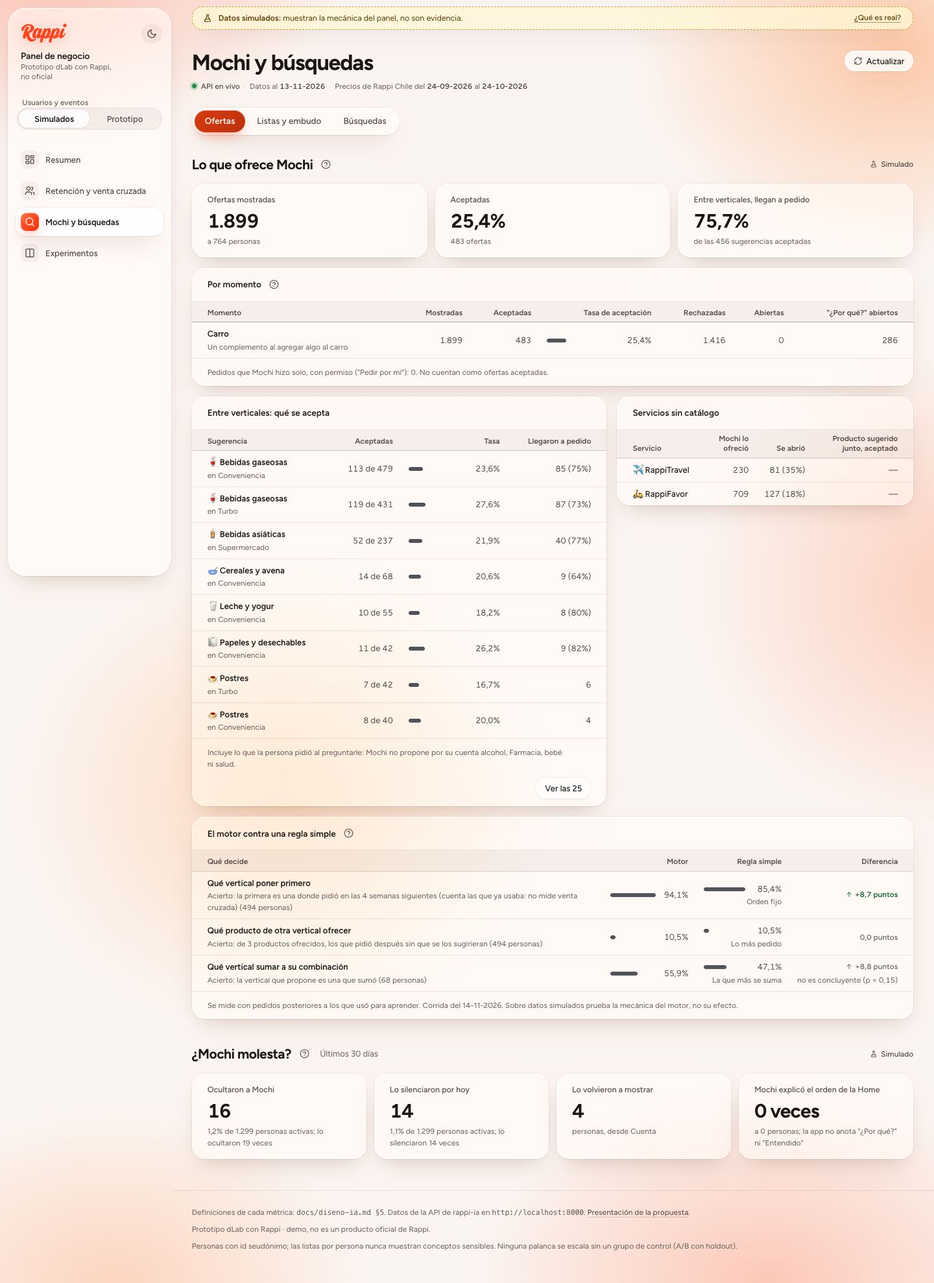
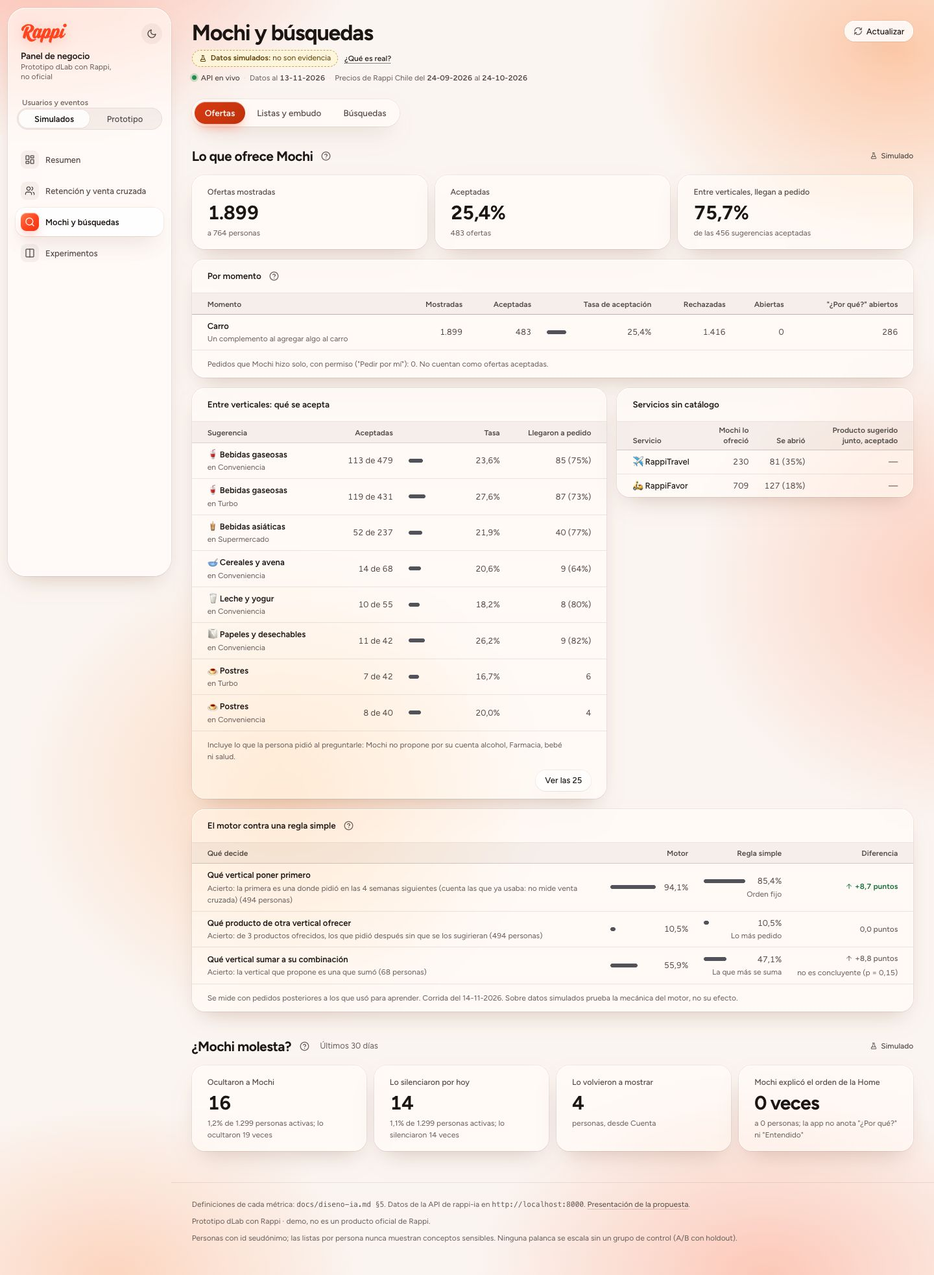
design(panel): la procedencia pasa de la franja fija a una etiqueta bajo el título
Se saca la franja "Datos simulados: … no son evidencia" de arriba del
contenido. El mismo aviso queda como etiqueta ámbar bajo el título de cada
página, con "¿Qué es real?": ninguna cifra simulada se ve sin su aviso.

diff --git a/dashboard-empresa/src/components/shell/shell.css b/dashboard-empresa/src/components/shell/shell.css
@@ -2,9 +2,8 @@
  * Armazón del panel. El scroll es del documento (la presentación lo desplaza con scrollBy y las capturas son de página
  * completa): lo fijo va con sticky.
  * Todo flota sobre el fondo de luz (`.app::before`): desde 1200 px, la barra lateral es un vidrio fijo separado de los
- * bordes (marca y tema, fuente, vistas) y, a su derecha, la franja de procedencia es una cápsula fija sobre el
- * contenido. Más angosto, la barra lateral se deshace (display: contents): la marca y la fuente arriba, las vistas como
- * tira de vidrio fija y la franja fija bajo ella.
+ * bordes (marca y tema, fuente, vistas). Más angosto, la barra lateral se deshace (display: contents): la marca y la
+ * fuente arriba y las vistas como tira de vidrio fija. La procedencia de los datos va bajo el título de cada página.
  */
 .app {
   position: relative;
@@ -262,11 +261,47 @@
   display: none;
 }
 
-/* ---------- Franja de procedencia (permanente y fija) y avisos de conexión: cápsulas de vidrio ---------- */
-.app-top {
-  position: sticky;
-  z-index: 20;
-  padding-top: 10px;
+/* ---------- Procedencia (bajo el título, siempre a la vista) y avisos de conexión ---------- */
+/* La etiqueta de procedencia: el único ámbar de la página, con borde punteado, ícono y texto (nunca solo por color) */
+.provenance {
+  position: relative;
+  display: flex;
+  flex-wrap: wrap;
+  align-items: center;
+  gap: 6px var(--space-2);
+  font-size: var(--text-xs);
+}
+
+.provenance-chip {
+  display: inline-flex;
+  align-items: flex-start;
+  gap: 6px;
+  padding: 3px 10px;
+  border: 1px dashed color-mix(in srgb, var(--sim-edge) 70%, transparent);
+  border-radius: 999px;
+  line-height: 1.45;
+  color: var(--sim-ink);
+  background: color-mix(in srgb, var(--sim-bg) 82%, transparent);
+}
+
+.provenance-chip svg {
+  flex: none;
+  width: 12px;
+  height: 12px;
+  margin-top: 3px;
+}
+
+.provenance-chip strong {
+  font-weight: 600;
+}
+
+.provenance .help-panel {
+  width: min(420px, 100%);
+}
+
+/* Los avisos de conexión: cápsulas de vidrio arriba del contenido */
+.notices {
+  padding-top: var(--space-3);
 }
 
 .provenance-row {
@@ -274,27 +309,15 @@
   margin-inline: auto;
   border: 1px solid var(--line);
   border-radius: 16px;
-  color: var(--ink);
+  color: var(--ink-2);
   background: var(--chrome);
   box-shadow: var(--glass-shadow);
   -webkit-backdrop-filter: var(--glass-blur);
   backdrop-filter: var(--glass-blur);
 }
 
-.provenance-row + .provenance-row,
-.app-top + .provenance-row {
+.provenance-row + .provenance-row {
   margin-top: var(--space-2);
-}
-
-.provenance-row--synthetic,
-.provenance-row--demo {
-  border: 1px dashed color-mix(in srgb, var(--sim-edge) 70%, transparent);
-  color: var(--sim-ink);
-  background: color-mix(in srgb, var(--sim-bg) 82%, transparent);
-}
-
-.provenance-row--offline {
-  color: var(--ink-2);
 }
 
 .provenance-inner {
@@ -328,18 +351,6 @@
 
 .provenance-inner .link-button {
   flex: none;
-}
-
-/* "¿Qué es real?": su panel se abre bajo la franja, alineado a la derecha */
-.provenance-inner .help {
-  flex: none;
-}
-
-.provenance-inner .help-panel {
-  right: 0;
-  left: auto;
-  width: min(420px, 100%);
-  color: var(--ink-2);
 }
 
 /* ---------- Contenido ---------- */
@@ -590,12 +601,8 @@
     text-overflow: ellipsis;
   }
 
-  .app-top {
-    top: 0;
-  }
-
   h2[id] {
-    scroll-margin-top: calc(var(--top-h, 46px) + 16px);
+    scroll-margin-top: var(--space-4);
   }
 }
 
@@ -656,10 +663,6 @@
     display: none;
   }
 
-  .app-top {
-    top: var(--nav-h);
-  }
-
   .provenance-inner {
     align-items: flex-start;
   }
@@ -673,7 +676,7 @@
   }
 
   h2[id] {
-    scroll-margin-top: calc(var(--nav-h) + var(--top-h, 58px) + 12px);
+    scroll-margin-top: calc(var(--nav-h) + 12px);
   }
 }
 

diff --git a/dashboard-empresa/src/components/shell/ProvenanceBanner.jsx b/dashboard-empresa/src/components/shell/ProvenanceBanner.jsx
@@ -8,21 +8,23 @@ const REAL =
   'Son reales la tabla de combinaciones de verticales que compartió Rappi (lleva el rótulo "Dato de Rappi") y los ' +
   'ítems del catálogo (muestra pública de rappi.cl).'
 
-// En una línea: la fuente elegida y que no es evidencia. La frase del prototipo va en su propio span: `make mvp-check`
-// la busca tal cual. Qué es real, a demanda.
+// En pocas palabras: la fuente elegida y que no es evidencia. La frase del prototipo va en su propio span: los tests la
+// buscan tal cual. Qué es real, a demanda.
 const MESSAGES = {
   synthetic: {
     text: (
       <>
-        <strong>Datos simulados:</strong> <span>muestran la mecánica del panel, no son evidencia</span>.
+        <strong>Datos simulados:</strong> <span>no son evidencia</span>
       </>
     ),
-    real: `${REAL} Usuarios, pedidos, búsquedas y ofertas los crea un generador con semilla.`,
+    real:
+      `Muestran la mecánica del panel. ${REAL} Usuarios, pedidos, búsquedas y ofertas los crea un generador con ` +
+      'semilla.',
   },
   prototype: {
     text: (
       <>
-        <strong>Datos del prototipo:</strong> <span>uso del MVP, pocas personas: no es evidencia</span>.
+        <strong>Datos del prototipo:</strong> <span>uso del MVP, pocas personas: no es evidencia</span>
       </>
     ),
     real:
@@ -32,38 +34,35 @@ const MESSAGES = {
 }
 
 /**
- * Aviso permanente de procedencia, fijo arriba del contenido (nunca se oculta): el único elemento ámbar de la página.
- * Mientras corre "Ver cómo funciona", una segunda fila dice que las cifras traen eventos de ejemplo.
+ * La procedencia de los datos, siempre a la vista bajo el título de la página: una etiqueta ámbar (el único ámbar de
+ * la página) y "¿Qué es real?". Mientras corre "Ver cómo funciona", una segunda etiqueta dice que las cifras traen
+ * eventos de ejemplo.
  */
-export function ProvenanceBanner({ source }) {
+export function ProvenanceChip({ source }) {
   const { text, real } = MESSAGES[source]
   return (
     <div className="provenance" role="note" aria-label="Procedencia de los datos">
-      <div className={`provenance-row provenance-row--${source}`}>
-        <div className="provenance-inner">
-          <Icon name="flask" />
-          <p>{text}</p>
-          <Help label="Qué es real" text="¿Qué es real?">
-            <p>{real}</p>
-          </Help>
-        </div>
-      </div>
+      <p className="provenance-chip">
+        <Icon name="flask" />
+        <span>{text}</span>
+      </p>
       {isDemoActive() && (
-        <div className="provenance-row provenance-row--demo">
-          <div className="provenance-inner">
-            <Icon name="flask" />
-            <p>
-              <strong>Demostración:</strong> las cifras traen eventos de ejemplo, no son datos reales.
-            </p>
-          </div>
-        </div>
+        <p className="provenance-chip">
+          <Icon name="flask" />
+          <span>
+            <strong>Demostración:</strong> las cifras traen eventos de ejemplo, no son datos reales.
+          </span>
+        </p>
       )}
+      <Help label="Qué es real" text="¿Qué es real?">
+        <p>{real}</p>
+      </Help>
     </div>
   )
 }
 
 /**
- * Los avisos de conexión, bajo la franja (no fijos): la foto sin conexión y, si alguna consulta cayó a los datos
+ * Los avisos de conexión, arriba del contenido (no fijos): la foto sin conexión y, si alguna consulta cayó a los datos
  * guardados, cuál y por qué. Con el prototipo sin la API (`prototypeOffline`), el único aviso de error de la página,
  * con su Reintentar.
  */

diff --git a/dashboard-empresa/src/App.jsx b/dashboard-empresa/src/App.jsx
@@ -2,7 +2,7 @@ import { AGENT_NAME } from './lib/agentName.js'
 import { lazy, Suspense, useEffect, useRef, useState } from 'react'
 import { Header } from './components/shell/Header.jsx'
 import { PageHeader } from './components/shell/PageHeader.jsx'
-import { ConnectionNotices, ProvenanceBanner } from './components/shell/ProvenanceBanner.jsx'
+import { ConnectionNotices } from './components/shell/ProvenanceBanner.jsx'
 import { SourceSwitch } from './components/shell/SourceSwitch.jsx'
 import { Tabs } from './components/shell/Tabs.jsx'
 import { API_URL, refreshSource, retryConnection, SNAPSHOT_INFO } from './lib/api.js'
@@ -79,28 +79,15 @@ export default function App() {
   const prototypeOffline = usePrototypeOffline()
   const [reloadKey, setReloadKey] = useState(0)
   const main = useRef(null)
-  const top = useRef(null)
   const nav = useRef(null)
   const anchor = useRef(null)
-  // Desde 1200 px: barra lateral con la marca, la fuente y las vistas, y la franja de procedencia fija arriba del
-  // contenido; más angosto, las vistas son una tira fija arriba y la franja queda fija bajo ella.
+  // Desde 1200 px: barra lateral con la marca, la fuente y las vistas; más angosto, las vistas son una tira fija arriba.
   const wide = useMediaQuery('(min-width: 1200px)')
   const { View, label, tabs } = VIEWS.find((item) => item.id === view)
 
-  // La altura de la franja de procedencia (en angosto ocupa dos líneas), para el CSS.
-  useEffect(() => {
-    const element = top.current
-    if (!element || typeof ResizeObserver === 'undefined') return undefined
-    const observer = new ResizeObserver(() =>
-      document.documentElement.style.setProperty('--top-h', `${element.offsetHeight}px`),
-    )
-    observer.observe(element)
-    return () => observer.disconnect()
-  }, [])
-
   /** Vuelve al comienzo del contenido (bajo lo que queda fijo arriba) si se está más abajo. */
   const toContentStart = () => {
-    const fixed = wide ? top.current.offsetHeight : nav.current.offsetHeight + top.current.offsetHeight
+    const fixed = wide ? 0 : nav.current.offsetHeight
     const start = main.current.getBoundingClientRect().top + window.scrollY - fixed
     if (window.scrollY > start) window.scrollTo({ top: start })
   }
@@ -180,9 +167,6 @@ export default function App() {
         </div>
       </div>
       <div className="app-main">
-        <div className="app-top" ref={top}>
-          <ProvenanceBanner source={source} />
-        </div>
         <ConnectionNotices source={source} fallbacks={fallbacks} prototypeOffline={prototypeOffline} onRetry={retry} />
         <main ref={main} id={`panel-${view}`} role="tabpanel" aria-labelledby={`tab-${view}`} className="app-content">
           <PageHeader

diff --git a/dashboard-empresa/src/styles/tokens.css b/dashboard-empresa/src/styles/tokens.css
@@ -3,16 +3,16 @@
  * (prefers-color-scheme) salvo que el usuario lo fije con el botón (data-theme en <html>).
  *
  * Lenguaje: vidrio líquido. Las superficies son translúcidas y flotan sobre un fondo de luz naranja (`.app::before`,
- * shell.css); cada una desenfoca lo que tiene detrás, lleva un brillo fino arriba y una sombra suave. Se conservan tres
- * convenciones: la densidad de tabla de Carbon (filas de 36 px, cabecera de 32), el "entorno de datos" fijo tipo "Test
- * mode" de Stripe (la franja de procedencia) y la navegación lateral de Linear.
+ * shell.css); cada una desenfoca lo que tiene detrás, lleva un brillo fino arriba y una sombra suave. Se conservan dos
+ * convenciones: la densidad de tabla de Carbon (filas de 36 px, cabecera de 32) y la navegación lateral de Linear. El
+ * "entorno de datos" (simulados o del prototipo) va en una etiqueta bajo el título de cada página.
  *
  * Reglas semánticas:
  *  - neutros cálidos y translúcidos para lo que no tiene juicio: texto, líneas, barras de tabla;
  *  - el naranja-rojo Rappi es la marca: el logo, la luz del fondo, la vista activa, los botones que llevan a otra vista,
  *    la serie destacada de un gráfico, el punto "después" de la escalera y el foco. No es magnitud ni estado;
  *  - el carmesí es el único rojo con juicio (empeora, riesgo), siempre con ícono y texto;
- *  - el ámbar marca lo simulado, con borde punteado y texto (nunca solo por color).
+ *  - el ámbar es la etiqueta de procedencia (simulado o del prototipo), con borde punteado y texto (nunca solo por color).
  * Contrastes: texto >= 4,5:1 y marcas >= 3:1 con su fondo, en los dos temas, medido sobre el vidrio encima de la parte
  * más intensa del fondo. El texto blanco va sobre `--brand-solid` (más oscuro que `--brand`), no sobre `--brand`.
  * Forma: badge y chip 6 px, controles en cápsula, vidrios 20 px, flotantes 24 px.

diff --git a/dashboard-empresa/src/components/shell/PageHeader.jsx b/dashboard-empresa/src/components/shell/PageHeader.jsx
@@ -4,6 +4,7 @@ import { formatDate } from '../../lib/format.js'
 import { useAnalytics } from '../../lib/useAnalytics.js'
 import { Async } from '../Async.jsx'
 import { Icon } from '../Icon.jsx'
+import { ProvenanceChip } from './ProvenanceBanner.jsx'
 import { SubNav } from './SubNav.jsx'
 
 const Sep = () => (
@@ -53,8 +54,8 @@ function dataStatus({ source, fallbacks, prototypeOffline }) {
 }
 
 /**
- * Cabecera de la página: el nombre de la vista, de cuándo son los datos (y los precios del catálogo), "Actualizar" y,
- * si la vista tiene más de una, sus subpestañas.
+ * Cabecera de la página: el nombre de la vista, la procedencia de los datos (que no son evidencia), de cuándo son (y los
+ * precios del catálogo), "Actualizar" y, si la vista tiene más de una, sus subpestañas.
  */
 export function PageHeader({ title, source, reloadKey, fallbacks, prototypeOffline, onRefresh, tabs, tab, onTab }) {
   const status = dataStatus({ source, fallbacks, prototypeOffline })
@@ -63,6 +64,7 @@ export function PageHeader({ title, source, reloadKey, fallbacks, prototypeOffli
       <div className="page-head-row">
         <div className="page-head-text">
           <h1 className="page-title">{title}</h1>
+          <ProvenanceChip source={source} />
           <p className="page-meta">
             <span className={`data-status data-status--${status.kind}`}>{status.label}</span>
             <Sep />

diff --git a/dashboard-empresa/src/components/ProvenanceBadge.jsx b/dashboard-empresa/src/components/ProvenanceBadge.jsx
@@ -1,7 +1,7 @@
 import { isDemoActive } from '../lib/api.js'
 import { Icon } from './Icon.jsx'
 
-// Procedencia de cada bloque. Lo simulado y lo del prototipo, un rótulo gris discreto (la franja fija de arriba ya dice
+// Procedencia de cada bloque. Lo simulado y lo del prototipo, un rótulo gris discreto (la etiqueta bajo el título ya dice
 // que no es evidencia); lo real, sólido: donde conviven, lo real es lo único que resalta. Nunca solo por color.
 // "Dato de Rappi" es la tabla de combinaciones que compartió Rappi (cohortes ene a jun 2026): real, pero agregada.
 const KINDS = {

diff --git a/docs/decisiones.md b/docs/decisiones.md
@@ -23,7 +23,7 @@ Resumen de lo que rige hoy (11-11-2026); el detalle y el porqué están en las f
 - **Ciudad de la demo (11-11):** las listas de tiendas, "Cerca de ti", "Bajaron de precio", Ofertas, "Disponible en N tiendas" y lo que Mochi propone por su cuenta son de tiendas de `PROFILE_CITY`, como las listas de restaurantes; lo que la persona pide en la búsqueda o a Mochi no se saca, pero sale con la tienda de la ciudad si alguna lo vende y va antes que lo que solo se vende en otra ciudad ([búsqueda](#búsqueda-e-ia), [agente](#agente-mochi)).
 - **Lo destacado** (lo más pedido, los kits y las listas de restaurantes) se cura con reglas generales en datos, al mostrarlo (24-10) ([agente](#agente-mochi)).
 - **Datos de personas:** solo simulados o del prototipo, nunca mezclados ni presentados como evidencia. El motor aprende de `MOTOR_POBLACION` (hoy, la simulada) y lo declara; la tabla de Rappi es una correlación, no un efecto ([datos simulados y panel](#datos-simulados-y-panel)).
-- **Panel de negocio:** parte del MVP, en 3 vistas alrededor de 4 preguntas para la gerencia y RappiAds (22-10), más una de experimentos (31-10); el grupo de control de ofertas (`ofertas_control`) queda apagado durante la prueba con usuarios; desde el 11-11 está listo para encenderse, con la parte expuesta contada igual en los dos grupos con hechos del servidor. Desde el 10-11 tiene un lenguaje visual propio, con la procedencia fija arriba; desde el 25-11 ese lenguaje es de vidrio líquido, con el logo y el naranja de Rappi como marca ([datos simulados y panel](#datos-simulados-y-panel)).
+- **Panel de negocio:** parte del MVP, en 3 vistas alrededor de 4 preguntas para la gerencia y RappiAds (22-10), más una de experimentos (31-10); el grupo de control de ofertas (`ofertas_control`) queda apagado durante la prueba con usuarios; desde el 11-11 está listo para encenderse, con la parte expuesta contada igual en los dos grupos con hechos del servidor. Desde el 10-11 tiene un lenguaje visual propio; desde el 25-11 ese lenguaje es de vidrio líquido, con el logo y el naranja de Rappi como marca, y la procedencia va en una etiqueta bajo el título de cada página ([datos simulados y panel](#datos-simulados-y-panel)).
 - **Operación:** el MVP exige la API (`make mvp`); en un servidor es una demo cerrada en la que la API nunca migra. El scraper se identifica con su propio User-Agent y respeta robots.txt; la base se entrega con `make dump-entrega`, sin las personas del prototipo. Jev es opcional y viene apagado ([operación](#operación), [búsqueda](#búsqueda-e-ia)).
 - **Entrega (24-10):** un repositorio nuevo, que partió de un solo commit y sigue con PR revisados, licencia "Todos los derechos reservados" con permiso de uso interno para Rappi, la app toda en español y `CLAUDE.md` como guía de convenciones ([repositorio](#repositorio-y-documentación)).
 - **Documentación:** las decisiones viven aquí y los diseños vigentes en [diseno/](diseno/) ([repositorio](#repositorio-y-documentación)).
@@ -292,7 +292,7 @@ Resumen de lo que rige hoy (11-11-2026); el detalle y el porqué están en las f
 | 14-11-2026 | **La P3 sale después de un "¿Por qué?", aunque la P1 ya haya salido** (`prototipo-app/src/state/survey.js`, `components/survey/useFoundItSurvey.js` y `components/assistant/OfferWhy.jsx`; sin cambios en la API ni migración). Además de seguir a la P1 (si la persona ya abrió un "¿Por qué?" en la sesión), "¿Confías en las sugerencias de Mochi?" sale sola cuando se va una oferta de Mochi cuyo "¿Por qué?" abrió: la aceptó, la dejó para después o se cerró (el "¿Por qué?" abierto avisa al desmontarse con su oferta). Mismas reglas: solo con Mochi a la vista (no oculto, no en "Rappi hoy", no en el grupo de control), nunca en el checkout ni el seguimiento, espera a los globos y menús de Mochi y al aviso de privacidad, 1,2 s al llegar, y se cierra sin responder. Si a la vez toca la P1, va primero y la P3 la sigue al responderla; cerrar esa P1 con la × deja las dos. Tope propio de la P3: una por día por persona (su fecha en localStorage, `rappi-proto-encuesta-p3-dia`); que la P1 ya haya salido en la sesión no la bloquea. La P1 sigue igual. Eventos de siempre: `survey_shown`, `survey_answer` y `survey_dismissed` con `question: "p3"` y `trigger: "porque"`, sin `request_id`. | En la prueba con 5 personas la P1 sale tras la primera búsqueda (tareas 1 o 2), antes de que nadie abra un "¿Por qué?" (tarea 4): encadenada a la P1, la P3 no salía nunca. El diseño original la quería "solo con Mochi, después de ver un ¿Por qué?". Esperar a que se vaya la oferta no corta la decisión que la tarea 4 observa, y el tope propio evita que una P1 temprana la bloquee sin repetirla en el día. |
 | 14-11-2026 | **El techo de la calculadora compone, como el modelo del gerente** (`dashboard-empresa/src/views/experiments/goalValue.js` y `GoalValue.jsx`; sin API ni migración). La lectura **techo** de la H1 deja de sumar los retenidos de más mes a mes (en el mes k, k × usuarios × cobertura × Δ) y pasa a "+Δ % de usuarios cada mes, compuesto, y nadie se va": en el mes k, usuarios × cobertura × ((1 + Δ)ᵏ − 1), o mes a mes X_k = (1 + Δ) × X_(k−1) + usuarios × cobertura × Δ. Con Δ = 2, el 26,8 % de los usuarios en el mes 12 en vez del 24 %. Cambian con ella el rótulo ("+Δ % compuesto al mes, nadie se va"), la ayuda, la línea de arriba (dice cuál cifra es la prudente y cuál el techo) y el mes en que se recupera la inversión del techo; "Retenidos de más" pasa a decir "el primer mes", porque en el techo los que se suman crecen cada mes. La lectura **prudente** no cambia. Los tests comparan el techo con la forma cerrada y con una cuenta mes a mes independiente (la base que crece 2 % cada mes, menos la de partida). | Es el modelo con el que Rappi lee la meta de la H1, así que el techo de la calculadora tiene que dar lo mismo que su cuenta; la fila anterior lo había dejado sin componer para no retener de nuevo a los ya retenidos, pero el techo es justamente la lectura optimista y la prudente sigue mostrando el otro extremo. |
 | 14-11-2026 | **El esfuerzo se mide con un Sí o un No, y la satisfacción queda en el panel** (`prototipo-app/src/components/survey/`, `state/survey.js`; `rappi-ia/src/rappi_ia/events/store.py`, `analytics/queries.py` y `events/synth.py`; `dashboard-empresa/src/views/experiments/Satisfaction.jsx`; sin migración: el CHECK de `app_events` es solo sobre el tipo). Matiza la fila del 13-11 ("La P2 no va"). La P2, "¿Fue fácil encontrarlo?", con Sí y No, sale en la misma tarjeta justo después de responder la P1 con "Sí" o "En parte" (con "No" no tiene sentido), en los dos grupos del control, con el motivo, la búsqueda y el `mochi` de la P1, y sin topes propios: es parte del mismo recorrido. Si además toca la P3, el orden es P1 → P2 → P3; cerrar la P2 con la × deja su `survey_dismissed` y se lleva la P3, como cerrar la P1. En Experimentos, "Satisfacción y esfuerzo" (debajo de "Adopción y apagado") muestra por grupo el "Sí" de la P1, el "Sí" de la P2, el promedio de la P3 (solo tratamiento, sin comparar) y la parte de los pedidos calificados con 4 o 5 estrellas (`order_rated`, uno por pedido, con la variante que la persona ya tenía); las dos proporciones nuevas se leen como la H3 (desde 100 por grupo, intervalo y prueba a una cola) y son secundarias, no hipótesis. Sin grupos, toda la fuente rotulada "describe, no mide un efecto"; con los simulados, sin veredicto. La API no repite la P1 en `satisfaccion`: el panel la toma de `encuesta`. Los pedidos se cuentan del evento y no de `app_orders.rating`, que no guarda los de "Rappi hoy". Los simulados traen la P2 (`P2_ANSWERED` 85 %, `P2_YES` 80 % tras Sí y 45 % tras En parte, sin efecto propio de Mochi) y calificaciones (`ORDER_RATED` 40 %, `ORDER_STARS` con 85 % de 4 o 5, igual en los dos grupos y solo como evento): supuestos propios, no datos. | El usuario decidió medir el esfuerzo con una respuesta simple y ver la satisfacción en el panel. Un Sí o un No cansa menos que una escala y se responde con un toque, y tras un Sí o un En parte no suma otra aparición: va en la tarjeta que ya salió. Preguntarla tras un "No" mezclaría "no encontré" con "costó encontrar". Ponerla igual en los dos grupos mantiene la comparación de la H3; la P2 se lee junto a ella y no sola, porque si Mochi sube el "Sí" de la P1, entran a la P2 personas que antes no llegaban. La calificación de pedidos ya existía y no se mostraba; Mochi no reparte, así que una diferencia ahí habla más de qué pidió cada grupo que de la entrega. |
-| 25-11-2026 | **El panel pasa a vidrio líquido, con el logo y el naranja de Rappi** (`dashboard-empresa/src/styles/tokens.css`, `components/shell/shell.css` y `RappiLogo.jsx`, `views/overview/`; sin migración ni cambios en la API). **(1) Material:** las superficies son translúcidas y flotan sobre un fondo de luz naranja; la barra lateral, la franja de procedencia, los paneles, los indicadores y los botones desenfocan lo que tienen detrás. Con `prefers-reduced-transparency` o sin `backdrop-filter`, el vidrio es opaco. **(2) Marca:** el logo de Rappi reemplaza a las tres barras, y el naranja deja de estar racionado: es la vista y la subpestaña activas, el botón que lleva a las hipótesis, la serie principal de los gráficos y la luz del fondo. Sigue sin ser estado ni magnitud en las tablas; el texto blanco va sobre un naranja más oscuro (4,5:1). **(3) Resumen:** los 5 indicadores van en mosaico junto a la serie semanal (antes, la serie iba junto a las decisiones) y las 4 preguntas pasan de una lista a una tarjeta cada una. Lo que no cambia: la procedencia fija arriba, el ámbar solo para lo simulado, "Dato de Rappi" como lo único sólido y cada gráfico con su tabla. | Se pidió mejorar la estética del panel: vidrio líquido, más futurista, con elementos naranjos de Rappi y su logo, con libertad para mover los bloques. El contraste del texto sobre el vidrio se midió en los dos temas (4,5:1 o más). |
+| 25-11-2026 | **El panel pasa a vidrio líquido, con el logo y el naranja de Rappi** (`dashboard-empresa/src/styles/tokens.css`, `components/shell/shell.css` y `RappiLogo.jsx`, `views/overview/`; sin migración ni cambios en la API). **(1) Material:** las superficies son translúcidas y flotan sobre un fondo de luz naranja; la barra lateral, los paneles, los indicadores y los botones desenfocan lo que tienen detrás. Con `prefers-reduced-transparency` o sin `backdrop-filter`, el vidrio es opaco. **(2) Marca:** el logo de Rappi reemplaza a las tres barras, y el naranja deja de estar racionado: es la vista y la subpestaña activas, el botón que lleva a las hipótesis, la serie principal de los gráficos y la luz del fondo. Sigue sin ser estado ni magnitud en las tablas; el texto blanco va sobre un naranja más oscuro (4,5:1). **(3) Resumen:** los 5 indicadores van en mosaico junto a la serie semanal (antes, la serie iba junto a las decisiones) y las 4 preguntas pasan de una lista a una tarjeta cada una. **(4) Procedencia:** la franja fija de arriba ("Datos simulados: … no son evidencia") se saca; el mismo aviso queda como una etiqueta ámbar bajo el título de cada página, con "¿Qué es real?", así ninguna cifra simulada se ve sin su aviso. Lo que no cambia: el ámbar solo para la procedencia, "Dato de Rappi" como lo único sólido y cada gráfico con su tabla. | Se pidió mejorar la estética del panel: vidrio líquido, más futurista, con elementos naranjos de Rappi y su logo, con libertad para mover los bloques, y sin la franja de arriba. El contraste del texto sobre el vidrio se midió en los dos temas (4,5:1 o más). |
 
 ## Operación
 

diff --git a/dashboard-empresa/README.md b/dashboard-empresa/README.md
@@ -67,7 +67,7 @@ Tests: las cifras vigentes están en [README.md#resultados](../README.md#resulta
 
 ## Vistas
 
-Desde 1200 px, la barra lateral lleva la marca y el tema, la fuente de usuarios y eventos (**Simulados** o **Prototipo**, lo hecho en `prototipo-app`) y las cuatro vistas; más angosto, la marca y la fuente van arriba y las vistas en una tira fija. Sobre el contenido, una franja de una línea dice la fuente elegida y que no es evidencia, queda fija al bajar y explica a demanda qué es real ("¿Qué es real?"). Cada página tiene su título, de dónde salen los datos que se ven ("API en vivo", "Datos guardados", "API sin conexión" o "Foto grabada"), la fecha de corte y "Actualizar" y, si la vista tiene varias, sus subpestañas (una pregunta por pantalla). La vista, la fuente y la subpestaña quedan en la URL (`?vista=clientes&fuente=prototipo&seccion=pro`; la primera subpestaña no se escribe), así que un enlace abre exactamente lo mismo; una vista o subpestaña que no existe abre la primera. Las definiciones van a demanda (el botón ⓘ junto a cada título, que se cierra con Escape o al tocar fuera); lo que siempre se ve es la cifra, su unidad y su salvedad en una línea. Ningún pedido cancelado cuenta en las cifras (migración 051). El encabezado dice de qué fecha son los precios ("Precios de Rappi Chile del … al …", el `catalogo` de `/catalog/home`; en el panel en un solo HTML, el de su foto); sin la API no lo muestra, porque los datos guardados no son del catálogo.
+Desde 1200 px, la barra lateral lleva la marca y el tema, la fuente de usuarios y eventos (**Simulados** o **Prototipo**, lo hecho en `prototipo-app`) y las cuatro vistas; más angosto, la marca y la fuente van arriba y las vistas en una tira fija. Cada página tiene su título y, debajo, una etiqueta ámbar que dice la fuente elegida y que no es evidencia, con "¿Qué es real?" a demanda; después, de dónde salen los datos que se ven ("API en vivo", "Datos guardados", "API sin conexión" o "Foto grabada"), la fecha de corte y "Actualizar" y, si la vista tiene varias, sus subpestañas (una pregunta por pantalla). La vista, la fuente y la subpestaña quedan en la URL (`?vista=clientes&fuente=prototipo&seccion=pro`; la primera subpestaña no se escribe), así que un enlace abre exactamente lo mismo; una vista o subpestaña que no existe abre la primera. Las definiciones van a demanda (el botón ⓘ junto a cada título, que se cierra con Escape o al tocar fuera); lo que siempre se ve es la cifra, su unidad y su salvedad en una línea. Ningún pedido cancelado cuenta en las cifras (migración 051). El encabezado dice de qué fecha son los precios ("Precios de Rappi Chile del … al …", el `catalogo` de `/catalog/home`; en el panel en un solo HTML, el de su foto); sin la API no lo muestra, porque los datos guardados no son del catálogo.
 
 ### 1. Resumen
 
@@ -170,8 +170,8 @@ No se puede: actualizar (no hay API; el botón no aparece), ver la presentación
 ## Cómo se lee
 
 - **Cada número con su contexto.** Una comparación (la combinación siguiente, las perdidas, la regla simple), la tendencia de 4 semanas o lo que lo explica. Las tasas aparecen desde 10 casos en su denominador; antes, solo las cuentas. Rojo solo para lo que empeora y verde para lo que mejora, siempre con flecha y texto; la demanda que crece va en gris, porque no es un resultado bueno ni malo.
-- **Vidrio líquido.** Las superficies son translúcidas y flotan sobre un fondo de luz naranja: la barra lateral, la franja de procedencia, los paneles, los indicadores y los botones desenfocan lo que tienen detrás, con un brillo fino arriba y una sombra suave. En el Resumen, los 5 indicadores van en mosaico junto a la serie semanal y las 4 preguntas, cada una en su tarjeta. Con `prefers-reduced-transparency`, o en un navegador sin `backdrop-filter`, el vidrio se vuelve opaco. Los tokens y sus reglas están en `src/styles/tokens.css`.
-- **Color con significado.** El naranja Rappi es la marca: el logo, la luz del fondo, la vista y la subpestaña activas, el botón que lleva a las hipótesis, la serie principal de cada gráfico y el punto "después" de la escalera; no es estado ni magnitud en las tablas. La segunda serie va en un neutro (3:1 o más con el fondo en los dos temas; con la primera, 3:1 en claro, y siempre con su rótulo y su leyenda, nunca solo por color). El texto blanco va sobre un naranja más oscuro (4,5:1). El ámbar es solo la franja de lo simulado. Lo simulado y lo del prototipo llevan un rótulo gris en su sección; "Dato de Rappi" va sólido, así lo real es lo único que resalta.
+- **Vidrio líquido.** Las superficies son translúcidas y flotan sobre un fondo de luz naranja: la barra lateral, los paneles, los indicadores y los botones desenfocan lo que tienen detrás, con un brillo fino arriba y una sombra suave. En el Resumen, los 5 indicadores van en mosaico junto a la serie semanal y las 4 preguntas, cada una en su tarjeta. Con `prefers-reduced-transparency`, o en un navegador sin `backdrop-filter`, el vidrio se vuelve opaco. Los tokens y sus reglas están en `src/styles/tokens.css`.
+- **Color con significado.** El naranja Rappi es la marca: el logo, la luz del fondo, la vista y la subpestaña activas, el botón que lleva a las hipótesis, la serie principal de cada gráfico y el punto "después" de la escalera; no es estado ni magnitud en las tablas. La segunda serie va en un neutro (3:1 o más con el fondo en los dos temas; con la primera, 3:1 en claro, y siempre con su rótulo y su leyenda, nunca solo por color). El texto blanco va sobre un naranja más oscuro (4,5:1). El ámbar es solo la etiqueta de procedencia, bajo el título. Lo simulado y lo del prototipo llevan un rótulo gris en su sección; "Dato de Rappi" va sólido, así lo real es lo único que resalta.
 - **Todo valor se puede leer sin el gráfico.** Cada gráfico tiene su tabla (*Ver tabla*): la de la serie semanal, las barras y las facetas está siempre en el DOM para el lector de pantalla; la escalera, su descripción por fila.
 - **Accesibilidad.** Pestañas accesibles (← → y ↑ ↓, Inicio y Fin; en el teléfono, con nombres cortos: Resumen, Clientes, Mochi y Experimentos); las subpestañas son botones con `aria-current` (el foco queda en el botón); los enlaces del Resumen abren la subpestaña y llevan el foco al título de la sección; las ayudas se abren con Enter y se cierran con Escape; bajo 900 px las tablas pasan a tarjetas; respeto de `prefers-reduced-motion`.
 
@@ -179,7 +179,7 @@ No se puede: actualizar (no hay API; el botón no aparece), ver la presentación
 
 ```text
 src/
-├── App.jsx                 vistas y subpestañas, fuente, franja de procedencia, enlaces a una sección
+├── App.jsx                 vistas y subpestañas, fuente, enlaces a una sección
 ├── presentacion.js         página de presentación de la propuesta (con presentacion.html y public/presentacion/)
 ├── lib/                    api.js (API, respaldo y foto), metrics.js (lo que lee el panel), agentName.js (el nombre visible del agente), format.js (es-CL), labels.js, hooks
 ├── components/             tabla, panel, ayuda (Help), salvedad (Caveat), insignias, cifras, estados vacío/carga/error
